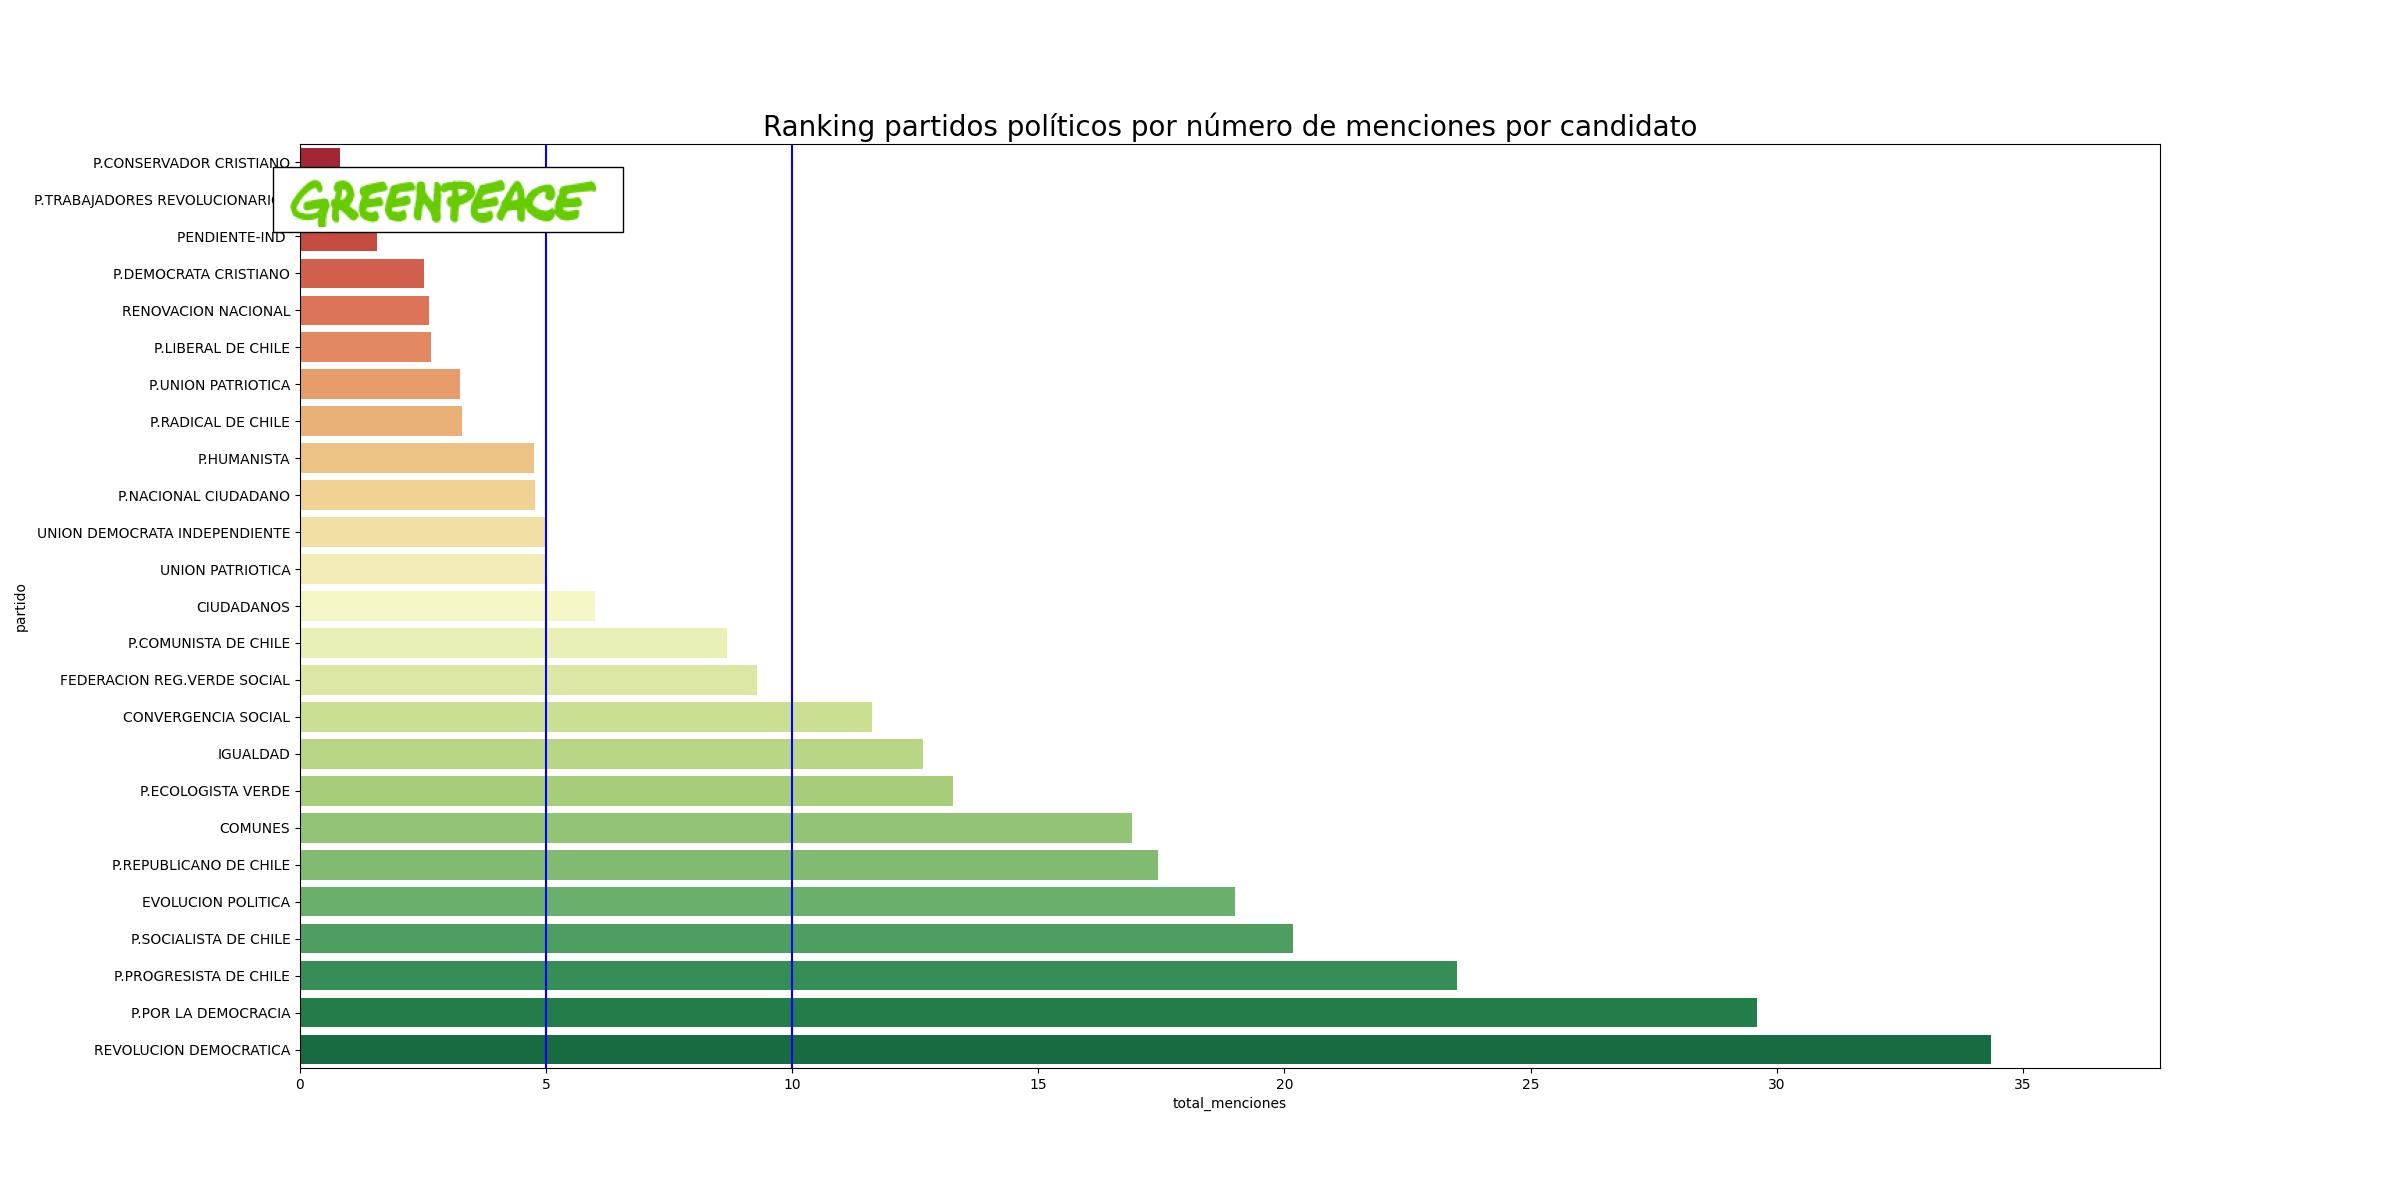
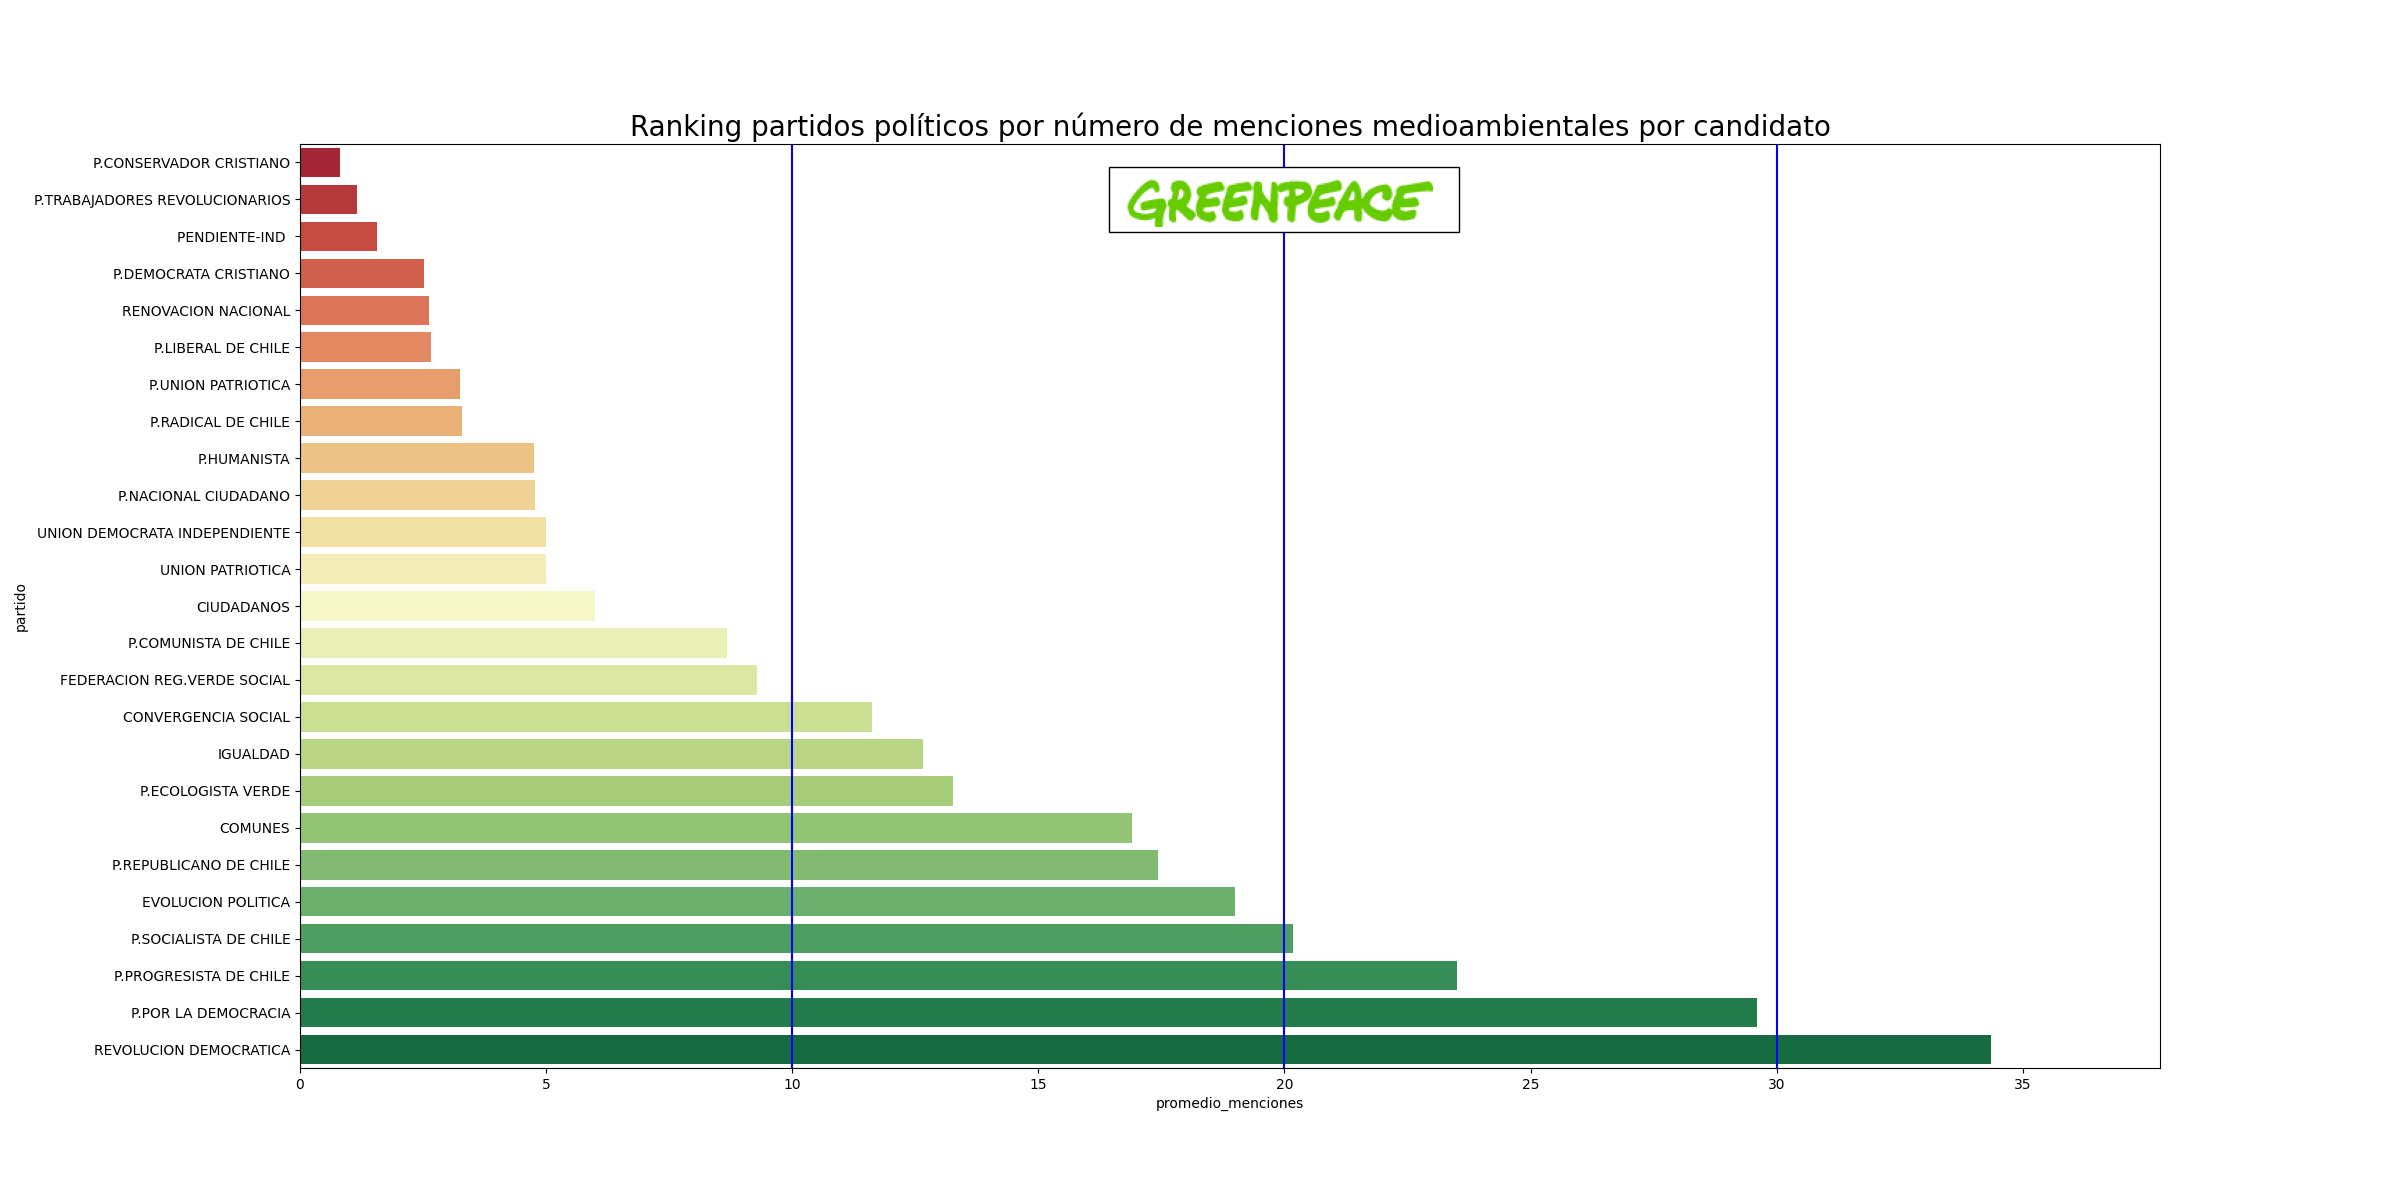
one decimal parties

Changed region(s): [[0.25, 0.0925, 0.75, 0.2158], [0.0938, 0.1233, 0.25, 0.2158], [0.5, 0.8942, 0.5312, 0.925]]

diff --git a/plotters.py b/plotters.py
@@ -364,31 +364,31 @@ tdf['partido'] = tdf['partido'].apply(lambda p: p[4:]+'-IND ' if p[:3]=='IND' el
 #ts = pd.DataFrame(tdf.sum(axis=1).reset_index())
 ############## GRAFICO DE BARRAS POR PARTIDO: make stacks
 ts = tdf.groupby('partido').sum().sum(axis=1).sort_values().reset_index()
-ts.columns = ['partido','total_menciones']
-ts = ts[ts.total_menciones>0]
+ts.columns = ['partido','promedio_menciones']
+ts = ts[ts.promedio_menciones>0]
 fig,ax = plt.subplots(1, figsize=(24,12))
-sns.barplot(x='total_menciones', 
-            data=ts.sort_values('total_menciones'), 
+sns.barplot(x='promedio_menciones', 
+            data=ts.sort_values('promedio_menciones'), 
             y='partido', palette='RdYlGn');
-for xx in (5,10):
+for xx in (10,20,30):
     plt.axvline(x=xx, color='blue')
 plt.margins(x=0.1)
 
 arr_lena = mpimg.imread('greenpeace.png')
 imagebox = OffsetImage(arr_lena, zoom=1.0)
-ab = AnnotationBbox(imagebox, (3, 1.0))
+ab = AnnotationBbox(imagebox, (20, 1.0))
 ax.add_artist(ab)
 #################
-plt.title('Ranking partidos políticos por número de menciones por candidato', size=20)
+plt.title('Ranking partidos políticos por número de menciones medioambientales por candidato', size=20)
 plt.savefig('static/ranking.png')
 plt.close()
 ##################
 ts = tdf.groupby('partido').sum().sum(axis=1).sort_values().reset_index()
 sdf = ts.groupby('partido').size()
-ts.columns = ['partido','total_menciones']
-ts = ts[ts.total_menciones>0]
+ts.columns = ['partido','promedio_menciones']
+ts = ts[ts.promedio_menciones>0]
 fig,ax = plt.subplots(1, figsize=(24,12))
-sns.barplot(x='total_menciones', data=ts.sort_values('total_menciones'), y='partido', palette='RdYlGn');
+sns.barplot(x='promedio_menciones', data=ts.sort_values('promedio_menciones'), y='partido', palette='RdYlGn');
 for xx in range(200,1000,200):
     plt.axvline(x=xx, color='blue')
 plt.margins(x=0.1)
